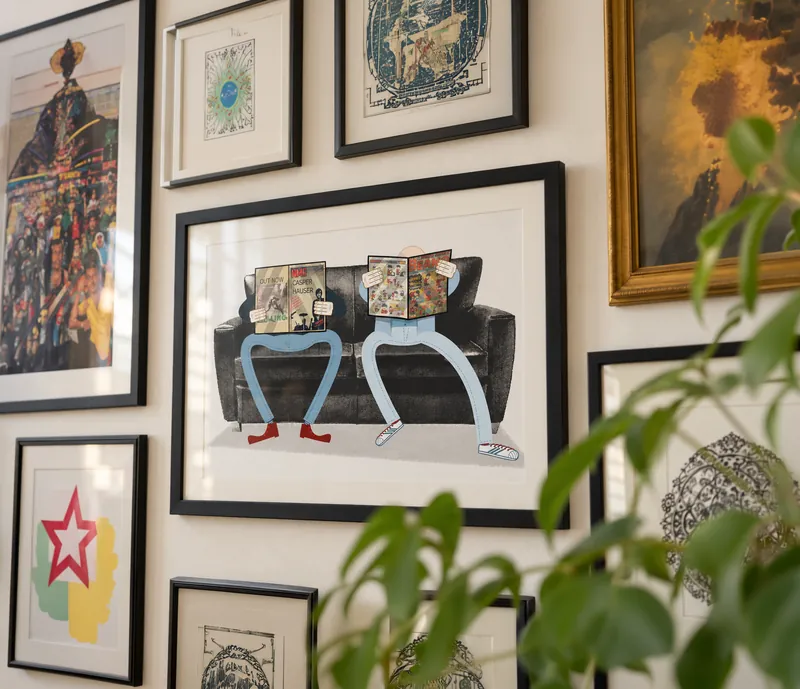
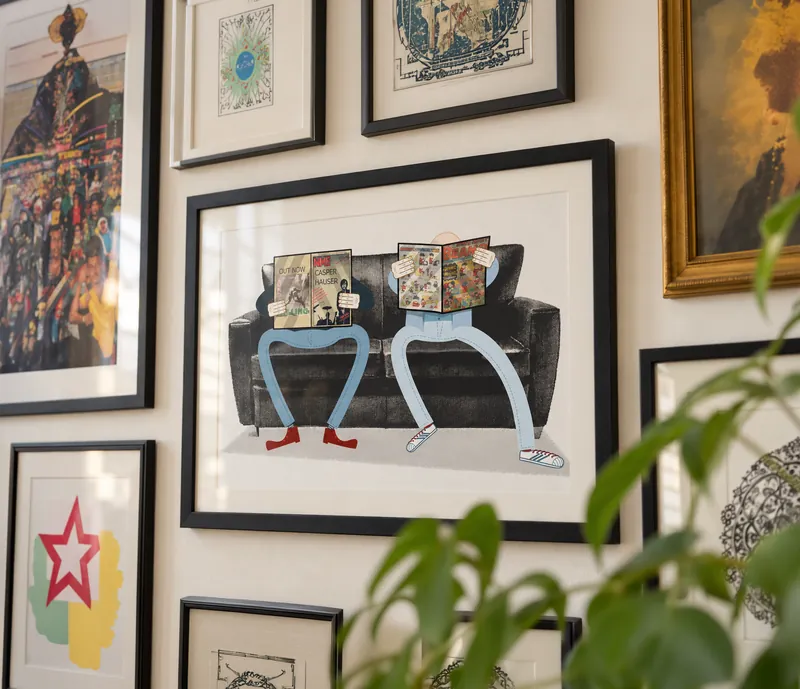
About: 2007 on the left, framed print zoomed 10% and aligned to the first paragraph, Swinegate above the studio photos
Claude-Session: https://claude.ai/code/session_01AqBp6FZN62KxxQttedpU3z

diff --git a/about/index.html b/about/index.html
@@ -33,7 +33,7 @@
   <link rel="stylesheet" href="/assets/css/styles.css">
   <link rel="stylesheet" href="/assets/css/hybrid.css?v=20261006-cream06">
   <link rel="stylesheet" href="/assets/css/icons.css?v=20261015-h2">
-  <link rel="stylesheet" href="/assets/css/pages.css?v=20261015-h4">
+  <link rel="stylesheet" href="/assets/css/pages.css?v=20261015-h5">
   <script type="application/ld+json">
 {
  "@context": "https://schema.org",
@@ -147,10 +147,10 @@
         <figure class="svc-story-illustration svc-story-illustration--photo"><img src="/assets/images/about/dan-andy-framed.webp" srcset="/assets/images/about/dan-andy-framed.w800.webp 800w, /assets/images/about/dan-andy-framed.webp 1600w" sizes="(max-width: 980px) 100vw, 480px" alt="Framed illustration of Dan Taylor and Andy Watkins sitting on a sofa, reading magazines, hanging on a gallery wall" width="1600" height="1378" loading="lazy"></figure>
       </div>
       <div class="container svc-story-photos">
+        <figure class="svc-story-ph svc-story-ph--wide"><img src="/assets/images/about/swinegate.webp" srcset="/assets/images/about/swinegate.w800.webp 800w, /assets/images/about/swinegate.webp 1448w" sizes="(max-width: 1200px) 100vw, 1160px" width="1448" height="1086" alt="The Swinegate street sign in York, home of the eko create studio" loading="lazy"></figure>
         <figure class="svc-story-ph svc-story-ph--lead"><img src="/assets/images/about/temp/studio-1.jpg" alt="Camera and lenses on an editing desk" loading="lazy"></figure>
         <figure class="svc-story-ph"><img src="/assets/images/about/temp/studio-2.jpg" alt="Hands typing on a laptop at an edit desk" loading="lazy"></figure>
         <figure class="svc-story-ph"><img src="/assets/images/about/temp/studio-3.jpg" alt="Designer using a stylus and graphics tablet" loading="lazy"></figure>
-        <figure class="svc-story-ph svc-story-ph--wide"><img src="/assets/images/about/swinegate.webp" srcset="/assets/images/about/swinegate.w800.webp 800w, /assets/images/about/swinegate.webp 1448w" sizes="(max-width: 1200px) 100vw, 1160px" width="1448" height="1086" alt="The Swinegate street sign in York, home of the eko create studio" loading="lazy"></figure>
       </div>
     </section>
 
@@ -269,6 +269,6 @@
     <a class="mobile-call" href="tel:+447813924599" aria-label="Call eko create on 07813 924599">Call</a>
   </footer>
 
-  <script src="/assets/js/pages.js?v=20261015-h4"></script>
+  <script src="/assets/js/pages.js?v=20261015-h5"></script>
 </body>
 </html>

diff --git a/assets/js/pages.js b/assets/js/pages.js
@@ -450,3 +450,25 @@
   h.classList.add('lb-ready');
   requestAnimationFrame(function () { requestAnimationFrame(function () { h.classList.add('lb-in'); }); });
 })();
+
+// About page: top of the framed print lines up with the top of the first paragraph, on desktop (Claude, 15 Oct 2026).
+(function () {
+  var fig = document.querySelector('.svc-story-illustration--photo');
+  var deck = document.querySelector('.svc-story-copy .svc-deck');
+  if (!fig || !deck) return;
+  var mq = window.matchMedia('(min-width: 981px)');
+  function align() {
+    if (!mq.matches) { fig.style.marginTop = ''; return; }
+    // Layout positions (offsetTop) so the build-in animations don't throw the measurement off.
+    function top(el) { var t = 0; while (el) { t += el.offsetTop; el = el.offsetParent; } return t; }
+    var col = deck.closest('.svc-story-grid > div');
+    var d = col ? top(deck) - top(col) : 0;  // the figure starts level with the top of the text column
+    fig.style.marginTop = Math.max(0, Math.round(d)) + 'px';
+  }
+  align();
+  window.addEventListener('resize', align);
+  window.addEventListener('load', align);
+  // Re-align whenever the text column changes height (web font swap, headline build-in)
+  if ('ResizeObserver' in window) { var col = deck.closest('.svc-story-grid > div'); if (col) new ResizeObserver(align).observe(col); }
+  if (document.fonts && document.fonts.ready) document.fonts.ready.then(align);
+})();

diff --git a/animation-and-motion-graphics/index.html b/animation-and-motion-graphics/index.html
@@ -33,7 +33,7 @@
   <link rel="stylesheet" href="/assets/css/styles.css">
   <link rel="stylesheet" href="/assets/css/hybrid.css?v=20261006-cream06">
   <link rel="stylesheet" href="/assets/css/icons.css?v=20261015-h2">
-  <link rel="stylesheet" href="/assets/css/pages.css?v=20261015-h4">
+  <link rel="stylesheet" href="/assets/css/pages.css?v=20261015-h5">
   <script type="application/ld+json">
 {
  "@context": "https://schema.org",
@@ -346,6 +346,6 @@
     <a class="mobile-call" href="tel:+447813924599" aria-label="Call eko create on 07813 924599">Call</a>
   </footer>
 
-  <script src="/assets/js/pages.js?v=20261015-h4"></script>
+  <script src="/assets/js/pages.js?v=20261015-h5"></script>
 </body>
 </html>

diff --git a/clients/index.html b/clients/index.html
@@ -33,7 +33,7 @@
   <link rel="stylesheet" href="/assets/css/styles.css">
   <link rel="stylesheet" href="/assets/css/hybrid.css?v=20261006-cream06">
   <link rel="stylesheet" href="/assets/css/icons.css?v=20261015-h2">
-  <link rel="stylesheet" href="/assets/css/pages.css?v=20261015-h4">
+  <link rel="stylesheet" href="/assets/css/pages.css?v=20261015-h5">
   <script type="application/ld+json">
 {
  "@context": "https://schema.org",
@@ -227,6 +227,6 @@
     <a class="mobile-call" href="tel:+447813924599" aria-label="Call eko create on 07813 924599">Call</a>
   </footer>
 
-  <script src="/assets/js/pages.js?v=20261015-h4"></script>
+  <script src="/assets/js/pages.js?v=20261015-h5"></script>
 </body>
 </html>

diff --git a/corporate-video-production/index.html b/corporate-video-production/index.html
@@ -33,7 +33,7 @@
   <link rel="stylesheet" href="/assets/css/styles.css">
   <link rel="stylesheet" href="/assets/css/hybrid.css?v=20261006-cream06">
   <link rel="stylesheet" href="/assets/css/icons.css?v=20261015-h2">
-  <link rel="stylesheet" href="/assets/css/pages.css?v=20261015-h4">
+  <link rel="stylesheet" href="/assets/css/pages.css?v=20261015-h5">
   <script type="application/ld+json">
 {
  "@context": "https://schema.org",
@@ -346,6 +346,6 @@
     <a class="mobile-call" href="tel:+447813924599" aria-label="Call eko create on 07813 924599">Call</a>
   </footer>
 
-  <script src="/assets/js/pages.js?v=20261015-h4"></script>
+  <script src="/assets/js/pages.js?v=20261015-h5"></script>
 </body>
 </html>

diff --git a/photography/index.html b/photography/index.html
@@ -33,7 +33,7 @@
   <link rel="stylesheet" href="/assets/css/styles.css">
   <link rel="stylesheet" href="/assets/css/hybrid.css?v=20261006-cream06">
   <link rel="stylesheet" href="/assets/css/icons.css?v=20261015-h2">
-  <link rel="stylesheet" href="/assets/css/pages.css?v=20261015-h4">
+  <link rel="stylesheet" href="/assets/css/pages.css?v=20261015-h5">
   <script type="application/ld+json">
 {
  "@context": "https://schema.org",
@@ -273,6 +273,6 @@
     <a class="mobile-call" href="tel:+447813924599" aria-label="Call eko create on 07813 924599">Call</a>
   </footer>
 
-  <script src="/assets/js/pages.js?v=20261015-h4"></script>
+  <script src="/assets/js/pages.js?v=20261015-h5"></script>
 </body>
 </html>

diff --git a/podcast-production/index.html b/podcast-production/index.html
@@ -33,7 +33,7 @@
   <link rel="stylesheet" href="/assets/css/styles.css">
   <link rel="stylesheet" href="/assets/css/hybrid.css?v=20261006-cream06">
   <link rel="stylesheet" href="/assets/css/icons.css?v=20261015-h2">
-  <link rel="stylesheet" href="/assets/css/pages.css?v=20261015-h4">
+  <link rel="stylesheet" href="/assets/css/pages.css?v=20261015-h5">
   <script type="application/ld+json">
 {
  "@context": "https://schema.org",
@@ -283,6 +283,6 @@
     <a class="mobile-call" href="tel:+447813924599" aria-label="Call eko create on 07813 924599">Call</a>
   </footer>
 
-  <script src="/assets/js/pages.js?v=20261015-h4"></script>
+  <script src="/assets/js/pages.js?v=20261015-h5"></script>
 </body>
 </html>

diff --git a/privacy/index.html b/privacy/index.html
@@ -33,7 +33,7 @@
   <link rel="stylesheet" href="/assets/css/styles.css">
   <link rel="stylesheet" href="/assets/css/hybrid.css?v=20261006-cream06">
   <link rel="stylesheet" href="/assets/css/icons.css?v=20261015-h2">
-  <link rel="stylesheet" href="/assets/css/pages.css?v=20261015-h4">
+  <link rel="stylesheet" href="/assets/css/pages.css?v=20261015-h5">
   <script type="application/ld+json">
 {
  "@context": "https://schema.org",
@@ -238,6 +238,6 @@
     <a class="mobile-call" href="tel:+447813924599" aria-label="Call eko create on 07813 924599">Call</a>
   </footer>
 
-  <script src="/assets/js/pages.js?v=20261015-h4"></script>
+  <script src="/assets/js/pages.js?v=20261015-h5"></script>
 </body>
 </html>

diff --git a/social-media-video/index.html b/social-media-video/index.html
@@ -33,7 +33,7 @@
   <link rel="stylesheet" href="/assets/css/styles.css">
   <link rel="stylesheet" href="/assets/css/hybrid.css?v=20261006-cream06">
   <link rel="stylesheet" href="/assets/css/icons.css?v=20261015-h2">
-  <link rel="stylesheet" href="/assets/css/pages.css?v=20261015-h4">
+  <link rel="stylesheet" href="/assets/css/pages.css?v=20261015-h5">
   <script type="application/ld+json">
 {
  "@context": "https://schema.org",
@@ -347,6 +347,6 @@
     <a class="mobile-call" href="tel:+447813924599" aria-label="Call eko create on 07813 924599">Call</a>
   </footer>
 
-  <script src="/assets/js/pages.js?v=20261015-h4"></script>
+  <script src="/assets/js/pages.js?v=20261015-h5"></script>
 </body>
 </html>

diff --git a/assets/css/pages.css b/assets/css/pages.css
@@ -350,3 +350,6 @@
 @media(max-width:680px){.svc-story-ph--wide{aspect-ratio:4/3}}
 /* About: framed Dan & Andy photo in a rounded box like the other About photos (Claude, 15 Oct 2026) */
 .svc-story-illustration--photo img{border-radius:16px}
+/* About: big "2007" moved to the left (Claude, 15 Oct 2026) */
+.svc-story-year{right:auto;left:-0.04em}
+@media(max-width:680px){.svc-story-year{right:auto;left:-10px}}
